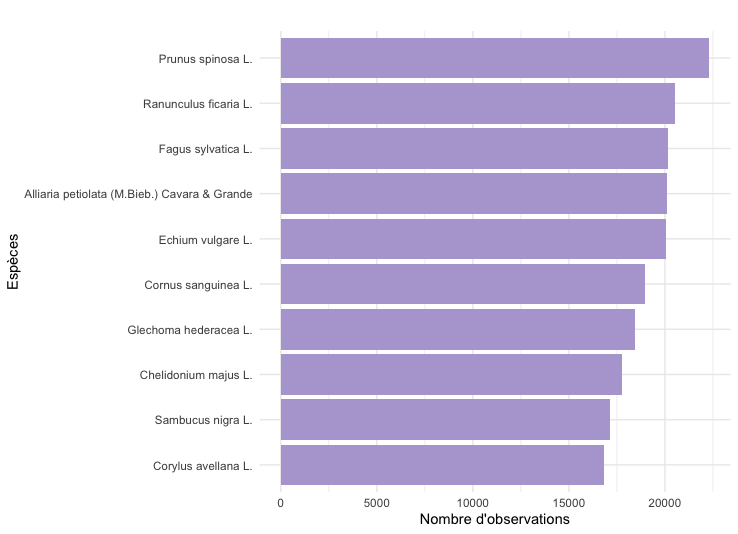
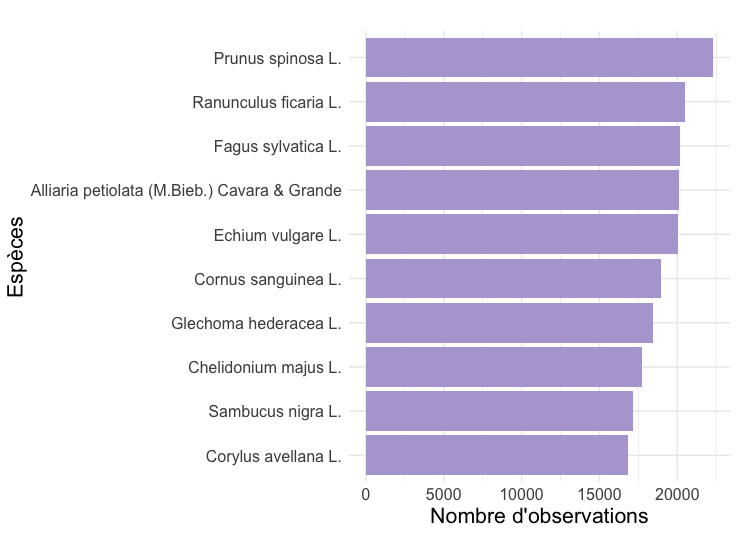
descriptive stats part updated

diff --git a/report/Rapport.tex b/report/Rapport.tex
@@ -251,10 +251,15 @@ Bien avant de nous atteler aux analyses plus poussées comme les algorithmes de 
 Nous avons tout d'abord examiné la répartition des espèces photographiées en Europe du Sud-Ouest.
 
 \begin{figure}[H]
-  \centering
-  \includegraphics[scale=0.35]{images/10_Most_Observed_Species.png}
-  \caption{Histogramme des $10$ espèces végétales les plus osbervées}
-  \label{fig1}
+\centering
+\begin{minipage}{0.55\textwidth}
+  \includegraphics[width=\linewidth]{images/10_Most_Observed_Species.png}
+\end{minipage}%
+\hfill
+\begin{minipage}{0.4\textwidth}
+  \includegraphics[width=\linewidth]{images/10_Least_Observed_Species.png}
+\end{minipage}
+\caption{Histogramme des $10$ espèces végétales les plus observées (à gauche) et liste des $10$ moins observées (à droite)}
 \end{figure}
 
 Comme le montre la figure $1$, les espèces les plus fréquemment photographiées par les utilisateurs de Pl@ntnet sont essentiellement des arbres vivaces, certains fruitiers, ou des fleurs comestibles, aux propriétés curatives et qui peuvent être aperçues dans toute la zone géographique étudiée. Le \textit{Prunus Spinosa L.} ou, plus communément, prunellier, arrive en tête des observations, suivi par d'autres espèces communes comme le \textit{Fagus Sylvatica L.} (hêtre commun) ou encore le \textit{Corylus avellana L.} (noisetier commun).
@@ -282,7 +287,7 @@ Au-delà de la simple fréquence d'apparition des espèces, qui semble seulement
 \caption{Nuages de points de la moyenne des scores ou des scores max en fonction du nombre d'observations}
 \end{figure}
 
-Ces deux graphiques révèlent plusieurs phénomènes intéressants.
+Ces deux graphiques, comptant chacun 2000 observations sélectionnées aléatoirement, révèlent plusieurs phénomènes intéressants.
 
 \vspace{0.2cm}
 
@@ -290,12 +295,25 @@ Contrairement à ce que l'on pourrait intuitivement penser, il n'existe pas de r
 
 \vspace{0.2cm}
 
-Le \textit{Prunus Spinosa L.}
-, l'espèce la plus observée, présente un score moyen relativement élevé (proche de $0,6$), ce qui suggère que le système est généralement confiant dans son identification. Cela peut s'expliquer par ses caractéristiques morphologiques distinctives et possiblement par la qualité généralement bonne des photos de cette espèce commune.
+Le \textit{Prunus Spinosa L.}, l'espèce la plus observée, présente un score moyen relativement élevé (proche de $0,6$), ce qui suggère que le système est généralement confiant dans son identification. Cela peut s'expliquer par ses caractéristiques morphologiques distinctives et possiblement par la qualité généralement bonne des photos de cette espèce commune.
 
 \vspace{0.2cm}
 
-Certaines espèces n'ayant qu'une seule observation présentent des scores très élevés, proches de $1$. Ce phénomène pourrait s'expliquer par le processus d'apprentissage du modèle : si l'intelligence artificielle a été entraînée sur des images similaires à cette unique observation dans notre jeu de données, elle peut la reconnaître avec une grande confiance.
+Certaines espèces n'ayant qu'une seule observation présentent des scores très élevés, proches de $1$. Ce phénomène pourrait s'expliquer par le processus d'apprentissage du modèle : si l'intelligence artificielle a été entraînée sur des images similaires à cette unique observation dans notre jeu de données, elle peut la reconnaître avec une grande confiance. Nous pouvons tout à fait le discerner sur les précédents graphes, le \textit{Pavonia Spinifex (L.) Cav.}, un arbuste à fleurs jaunes originaire des Caraïbes, a vu s'être attribué une probabilité autour de $0,35$, ce qui est plutôt correct pour une espèce n'appartenant normalement pas à la flore d'Europe du Sud-Ouest.
+
+%%%%%% PAVONIA SPINIFEX : https://identify.plantnet.org/fr/k-world-flora/species/Pavonia%20spinifex%20%28L.%29%20Cav./data %%%%%%
+%%%%%% PRUNUS SPINOSA : https://identify.plantnet.org/fr/k-world-flora/species/Prunus%20spinosa%20L./data %%%%%%
+
+\begin{figure}[H]
+\centering
+\begin{minipage}{0.5\textwidth}
+  \includegraphics[width=0.9\linewidth]{images/prunus_spinosa.jpeg}
+\end{minipage}%
+\begin{minipage}{0.5\textwidth}
+  \includegraphics[width=0.9\linewidth]{images/pavonia_spinifex.jpeg}
+\end{minipage}
+\caption{Prunus Spinosa L. et Pavonia Spinifex (L.) Cav.}
+\end{figure}
 
 \subsubsection{Facteurs influençant la qualité des prédictions}
 
@@ -311,16 +329,24 @@ Plusieurs facteurs peuvent expliquer la variabilité observée dans les scores d
 \subsubsection{Impact du choix de l'utilisateur}
 
 Les espèces associées aux probabilités Top 1 ne sont pas systématiquement celles choisies par l'observateur, qui peut décider de désigner une espèce de probabilités plus faibles également proposées par l'IA ou opter pour une tout autre espèce. Des utilisateurs n'ayant pas observé eux-mêmes, sur place, peuvent également choisir une espèce à l'instar de l'observateur. Nous avons admis par vote majoritaire que l'observateur a plus de poids que les autres votants, sauf si les votants externes sont plus nombreux à valider une réponse qui diffère de l'observateur. Observons sur un échantillon plus restreint du jeu de données les différences entre le Top 1 et le vote majoritaire. 
+
 \begin{figure}[H]
-    \centering
-    \includegraphics[scale=0.35]{images/10_Most_Observed_Species_Users.png}
-    \caption{Histogramme des $10$ espèces végétales les plus osbervées}
-    \label{fig2}
+\centering
+\begin{minipage}{0.55\textwidth}
+  \includegraphics[width=\linewidth]{images/10_Most_Observed_Species_Users.png}
+\end{minipage}%
+\hfill
+\begin{minipage}{0.4\textwidth}
+  \includegraphics[width=\linewidth]{images/10_Least_Observed_Species_Users.png}
+\end{minipage}
+\caption{Histogramme des $10$ espèces végétales les plus choisies (à gauche) et liste des moins choisies (à droite)}
 \end{figure}
+
 
 \vspace{0.2cm}
 
 Si \textit{Prunus Spinosa L.} est toujours présente dans ce graphique, c'est l'espèce \textit{Malva sylvestris L.}, une fleur au mauve intense, qui est en tête. Sur ces $\num{67 461}$ observations (un centième des données totales), elle est donc la plus souvent choisie par les utilisateurs. Ce graphique seul indique que l'espèce prédite en première par l'intelligence artificielle, celle en qui l'algorithme est le plus confiant, n'est pas toujours ce que l'utilisateur compte choisir. Il est envisageable que les espèces proposées par l'inteligence artificielle dans son Top K se ressemblent : il existe par exemple plusieurs espèces d'iris ou de lotus partageant donc des caractéristiques communes, on parle de "familles".
+
 \begin{figure}[H]
     \centering
     \begin{minipage}{0.5\textwidth}
@@ -332,12 +358,37 @@ Si \textit{Prunus Spinosa L.} est toujours présente dans ce graphique, c'est l'
     \caption{Nuages de points de la moyenne des scores ou des scores max en fonction du nombre d'observations}
 \end{figure}
 
-La plante n'ayant été choisie qu'une seule fois dans cet échantillon est \textit{Daphne striata Tratt.}, un arbrisseau à fines fleurs roses et fruits rouges. Son score est pourtant assez bas, nous pouvons imaginer qu'elle n'était proposée par l'application qu'en deuxième ou troisième position. Pour ce qui est de la Mauve, sa probabilité est élevée, elle est possiblement le Top 1 de l'algorithme, ce qui entraîne le choix de l'observateur. Outre ces deux espèces, nous remarquons qu'il y a plusieurs espèces aux scores très proches de $0$ qui ont été choisies, soit parce que l'IA n'était pas confiante et a proposé de nombreuses options ayant des probabilités minimes, soit parce que les votants ont eux-mêmes été chercher une espèce en particulier parmi les espèces les moins évidentes selon l'IA.
+Puisque l'échantillon étudié est moins conséquent que celui de la première étude, 3000 observations ont été aléatoirement sélectionnées, soit 1000 observations supplémentaires, pour une meilleure intuition. 
 
 \vspace{0.2cm}
 
+La Mauve, choisie plus de 200 fois dans cet échantillon, possède en moyenne une probabilité assez basse. Cela suggère qu'elle n'a pas toujours été l'espèce Top $1$ mais qu'elle a tout de même été validée par l'observateur ou par les votants à la majorité. Les quelques fois où elle a été la première proposition de l'algorithme a entrainé le choix de l'observateur à opter pour cette espèce, c'est après une plante d'une couleur intense et d'une forme assez particulière que l'observateur a pu remarquer.
+
+\vspace{0.2cm}
+
+Une des plantes n'ayant été choisie qu'une seule fois dans cet échantillon est la \textit{Daphne striata Tratt.}, un arbrisseau à fines fleurs roses produisant des baies qui ressemblent à des œufs. Son score est pourtant assez bas, nous pouvons imaginer qu'elle n'était proposée par l'application qu'en deuxième ou troisième position.  
+
+\vspace{0.2cm}
+
+Outre ces deux espèces, nous remarquons qu'il y a plusieurs espèces aux scores très proches de $0$ qui ont été choisies, soit parce que l'IA n'était pas confiante et a proposé de nombreuses options ayant des probabilités minimes, soit parce que les votants ont eux-mêmes été chercher une espèce en particulier parmi les espèces les moins évidentes selon l'IA.
+
+%%%%% MALVA SYLVESTRIS : https://identify.plantnet.org/k-world-flora/species/Malva%20sylvestris%20L./data#galleries %%%%%
+%%%%% DAPHNE STRIATA : https://identify.plantnet.org/fr/k-world-flora/species/Daphne%20striata%20Tratt./data#galleries %%%%%
+
+\begin{figure}[H]
+    \centering
+    \begin{minipage}{0.5\textwidth}
+      \includegraphics[width=0.9\linewidth]{images/malva_sylvestris.jpeg}
+    \end{minipage}%
+    \begin{minipage}{0.5\textwidth}
+      \includegraphics[width=0.9\linewidth]{images/daphne_striata.jpeg}
+    \end{minipage}
+    \caption{Malva sylvestris L. et Daphne striata Tratt.}
+\end{figure}
+
 Ces observations préliminaires nous ont confirmé la nécessité d'une approche adaptative pour la présentation des résultats aux utilisateurs. En effet, un système qui proposerait un nombre fixe d'espèces candidates serait soit trop restrictif dans les cas difficiles (risquant d'oublier la bonne espèce), soit trop verbeux dans les cas simples (noyant l'utilisateur sous des propositions inutiles).
 
+\vspace{0.2cm}
 \vspace{0.2cm}
 
 La prédiction conforme, que nous allons introduire dans la section suivante, offre plus précisément le cadre mathématique nécessaire pour adapter dynamiquement le nombre de suggestions en fonction de la difficulté de chaque cas d'identification.
